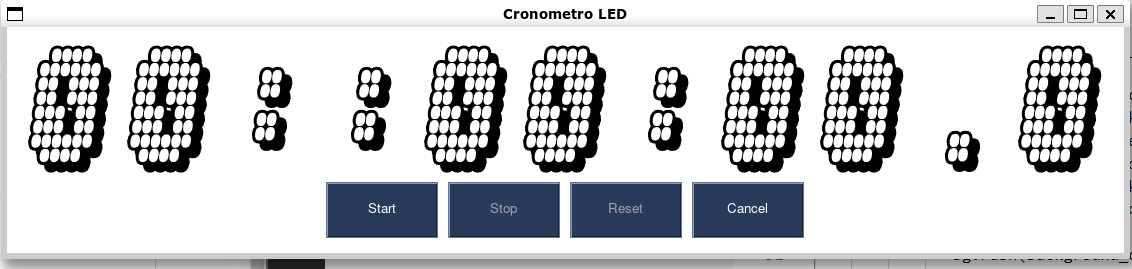
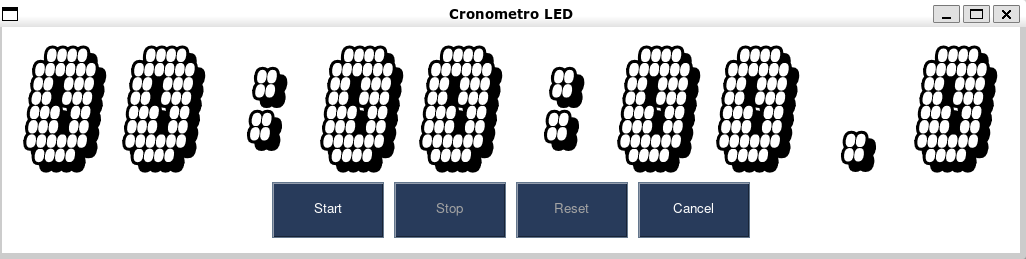
Cronometro

diff --git a/F6/stopwatch.py b/F6/stopwatch.py
@@ -28,36 +28,45 @@ def time_convert(dt: float):
 class CountTime(object):
 
     def __init__(self, fupdate):
+        """ guardar funcao de atualizacao e inicializar variaveis """
         self.update = fupdate
         self.time_lapsed = 0
 
     def _create_start_thread(self):
+        """ Timer não permite restart.
+            Tem que ser criado toda a vez depois de timer.cancel()
+        """
         self.thread = RepeatTimer(0.1, self.count)
         self.thread.start()
 
     def reset(self):
+        """ zera o timer e atualiza o valor na tela """
         self.time_lapsed = 0  # zero the counting timer
         self.start_time = time.time()  # reset the initial time
         self.update(self.time_lapsed)
 
     def start(self):
+        """ inicia a contagem do timer na tela """
         # get initial time
         self.start_time = time.time()
         # start count
         self._create_start_thread()
 
     def count(self):
+        """ atualiza a contagem na tela """
         end_time = time.time()
         time_lapsed = end_time - self.start_time
         self.update(self.time_lapsed + time_lapsed)
         return time_lapsed
 
     def stop(self):
+        """ para o cronometro, mas nao zera (assim pode reiniciar) """
         time_lapsed = self.count()
         self.time_lapsed += time_lapsed
-        self.thread.cancel()
+        self.thread.cancel()  # para reiniciar o timer, precisa criar de novo a thread
 
     def restart(self):
+        """ reinicia a contagem se estiver parado """
         if not self.thread.is_alive():
             self.start_time = time.time()  # restart interval
             self._create_start_thread()

diff --git a/F6/stopwatch-blank.py b/F6/stopwatch-blank.py
@@ -1,0 +1,64 @@
+import time
+import PySimpleGUI as sg
+
+from repeattimer import RepeatTimer
+
+
+def time_convert(dt: float):
+    """ convert time in seconds to hh:mm:ss.d
+
+    Args:
+        sec (int): _description_
+
+    Returns:
+        _type_: _description_
+    """
+
+
+class CountTime(object):
+
+    def __init__(self, fupdate):
+        """ guardar funcao de atualizacao e inicializar variaveis """
+
+    def reset(self):
+        """ zera o timer e atualiza o valor na tela """
+
+    def start(self):
+        """ inicia a contagem do timer na tela """
+
+    def count(self):
+        """ atualiza a contagem na tela """
+
+    def stop(self):
+        """ para o cronometro, mas nao zera (assim pode reiniciar) """
+
+    def restart(self):
+        """ reinicia a contagem se estiver parado """
+
+
+if __name__ == '__main__':
+    button_size = 7
+
+    layout = [[# linha com o timer
+              ],
+              [# linha com os botoes de controle: start, stop, reset, exit
+              ],
+              ]
+
+    #Create the Window
+    window = sg.Window('Cronometro', layout)
+
+    # Event Loop to process "events" and get the "values" of the inputs
+    crono = None
+    while True:
+        event, values = window.read()
+        if event == sg.WIN_CLOSED or event == '-close-':  # if user closes window or clicks cancel
+            break
+        elif event == "-start-":
+            """ inicia o cronometro """
+        elif event == "-stop-":
+            """ para a contagem """
+        elif event == "-reset-":
+            """ zera cronometro """
+
+    window.close()

diff --git a/F6/stopwatchled.py b/F6/stopwatchled.py
@@ -28,7 +28,6 @@ if __name__ == '__main__':
                     sg.Image(imgs["0"], key="-H1-"),
                     sg.Image(imgs["0"], key="-H2-"),
                     sg.Image(imgs[":"], key="-sep1-"),
-                    sg.Image(imgs[":"], key="-sep1-"),
                     sg.Image(imgs["0"], key="-M1-"),
                     sg.Image(imgs["0"], key="-M2-"),
                     sg.Image(imgs[":"], key="-sep2-"),

diff --git a/F6/README.MD b/F6/README.MD
@@ -11,12 +11,12 @@ Este folder contem os codigos para criacao de um cronometro digital em Python ut
 - stopwatch.py:
   + cronometro funcional com display em texto normal
 
+![Cronometro](stopwatch.png)
+
 - stopwatchled.py:
   + cronometro funcional com display em led
 
-![Cronometro](stopwatch.png)
+![Cronometro LED](stopwatchled.png)
 
 - repeattimer.py:
-  - modulo com a classe de Timer que é acionado a cada x décimos de segundo
-
-![Cronometro LED](stopwatchled.png)
+  - modulo (auxiliar) com a classe de Timer que é acionado a cada x décimos de segundo
